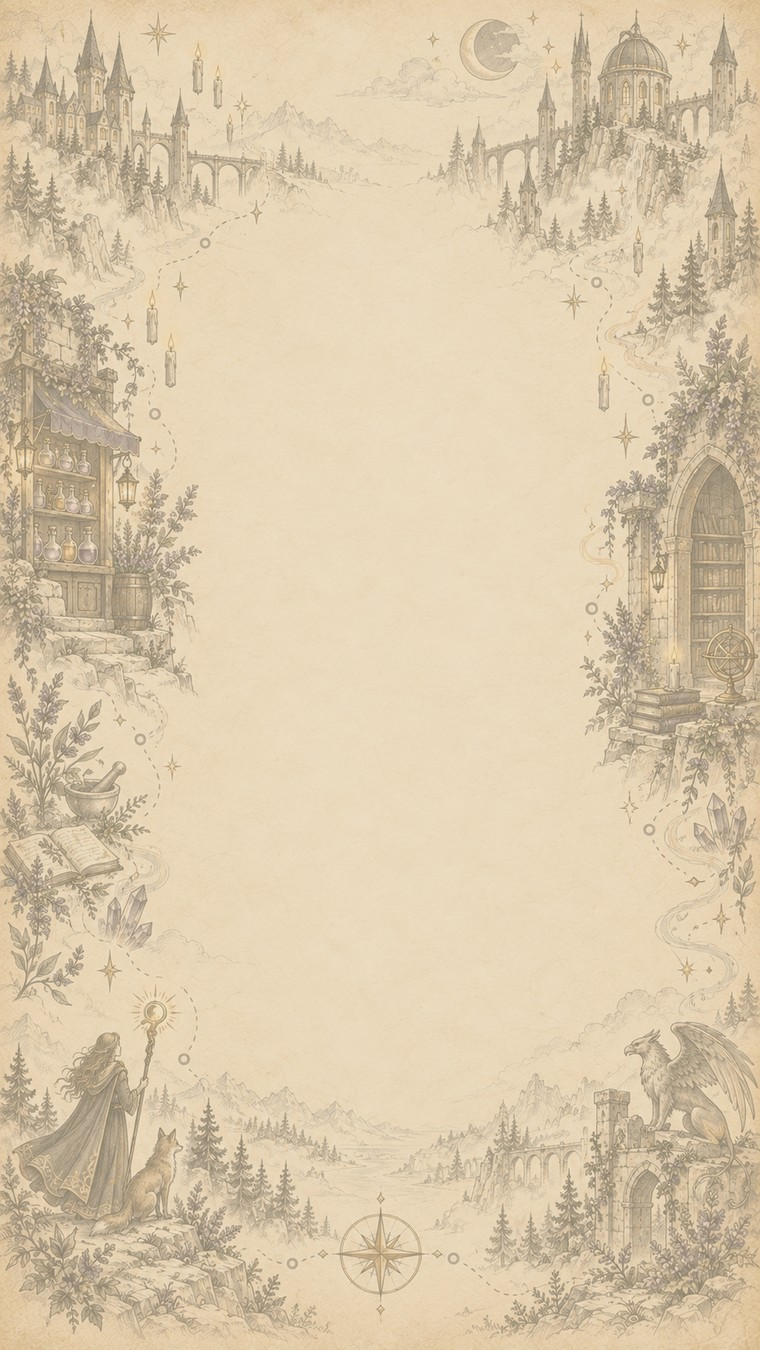
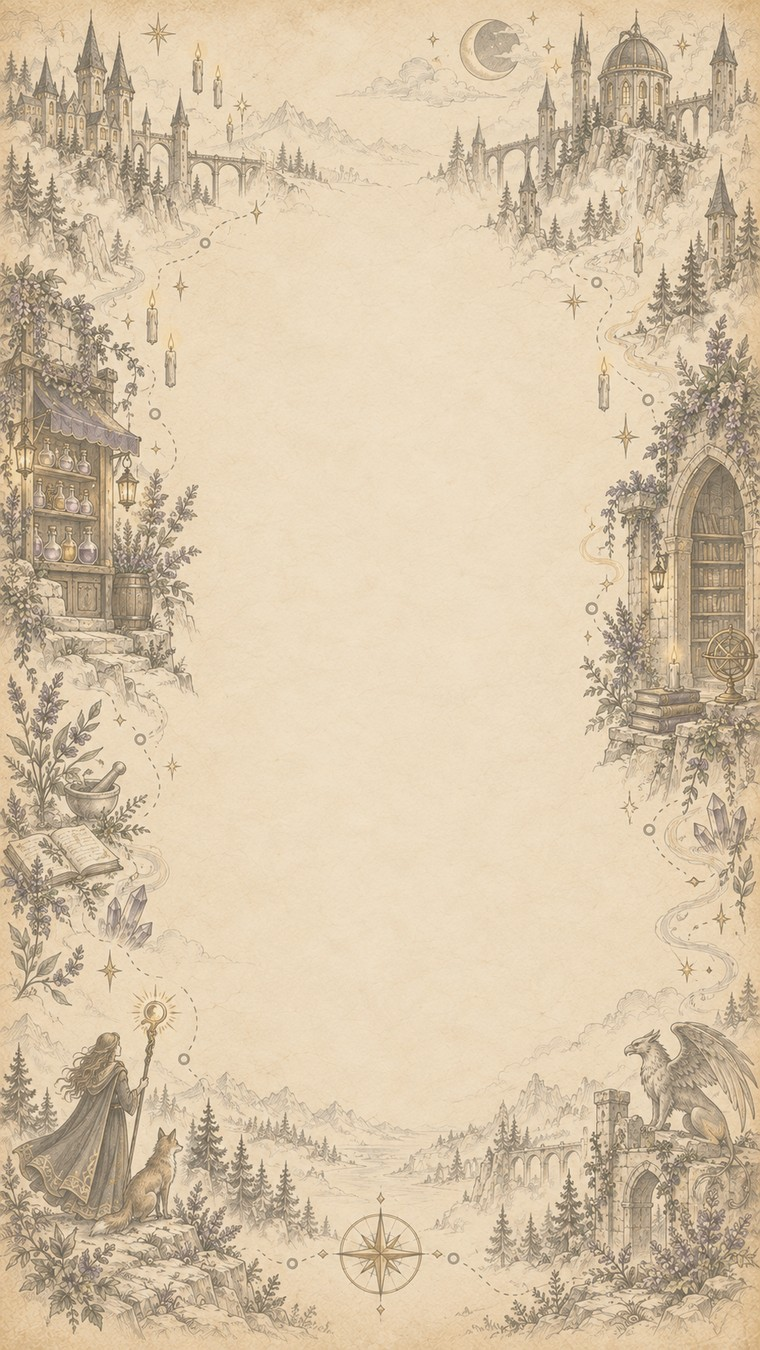
Add files via upload

diff --git a/index.html b/index.html
@@ -189,9 +189,6 @@
   #sabbath{position:fixed;inset:0;background:color-mix(in srgb,var(--bg) 94%,transparent);background-image:var(--paper);backdrop-filter:blur(6px);
     z-index:20;display:none;align-items:center;justify-content:center;padding:18px;overflow:auto}
   #sabbath.on{display:flex}
-  #church{position:fixed;inset:0;background:color-mix(in srgb,var(--bg) 94%,transparent);background-image:var(--paper);backdrop-filter:blur(6px);
-    z-index:20;display:none;align-items:center;justify-content:center;padding:18px;overflow:auto}
-  #church.on{display:flex}
   .crow{display:flex;align-items:center;justify-content:space-between;gap:10px;padding:9px 0;border-top:1px solid var(--line2);text-align:left}
   .crow:first-child{border-top:none}
   .crow label{font-size:14.5px;color:var(--tx)}
@@ -645,12 +642,6 @@
     and a nap you don't have to justify. The board is lighter on purpose — enjoy the day the Lord made.</p>
   <button id="sabgo">Begin the day</button>
 </div></div>
-<div id="church"><div class="sabbox">
-  <div class="sabhead" id="churchhead">How was it?</div>
-  <p class="sabtx" id="churchsub">A few honest numbers. Nobody's grading you — this is just for you.</p>
-  <div id="churchrows"></div>
-  <button id="churchgo" style="margin-top:14px">Log it</button>
-</div></div>
 <div id="pop"><div id="popbox"></div></div>
 <canvas id="fx"></canvas><div id="critterLayer"></div>
 <div class="toast" id="toast"></div>
@@ -817,41 +808,6 @@ el('weightlog').onclick=()=>{
   render();save();
 };
 
-/* ---------- church check-in: Sunday 12pm, Wednesday 8pm ---------- */
-const CHURCH_QS=[['attentive','Present, not elsewhere'],['application','Took something with me'],['spoke','Said something out loud'],['met','Talked to someone new']];
-function churchState(){S.church=S.church||{lastSun:null,lastWed:null,log:[]};return S.church}
-function churchDue(){
-  const d=new Date(),dow=d.getDay(),h=d.getHours(),cs=churchState();
-  if(dow===0&&h>=12&&cs.lastSun!==today())return 'Sunday service';
-  return null;
-}
-function checkChurchPrompt(){
-  if(el('church').classList.contains('on')||el('sabbath').classList.contains('on'))return;
-  const which=churchDue();if(!which)return;
-  el('churchhead').textContent='How was '+which+'?';
-  const picks={};
-  el('churchrows').innerHTML=CHURCH_QS.map(([k,label])=>`<div class="crow">
-    <label>${label}</label><div class="cscale" data-k="${k}">
-      ${[1,2,3,4,5].map(n=>`<button data-v="${n}">${n}</button>`).join('')}</div></div>`).join('');
-  el('churchrows').querySelectorAll('.cscale').forEach(row=>{
-    const k=row.dataset.k;
-    row.querySelectorAll('button').forEach(b=>{
-      b.onclick=()=>{picks[k]=+b.dataset.v;
-        row.querySelectorAll('button').forEach(x=>x.classList.toggle('pick',x===b))};
-    });
-  });
-  el('church').classList.add('on');
-  el('churchgo').onclick=()=>{
-    const vals=CHURCH_QS.map(([k])=>picks[k]).filter(v=>v!=null);
-    if(!vals.length){toast('Pick at least one number.');return}
-    const avg=vals.reduce((a,b)=>a+b,0)/vals.length;
-    const cs=churchState();
-    if(which==='Sunday service')cs.lastSun=today();
-    cs.log=(cs.log||[]).concat([{d:today(),which,avg:+avg.toFixed(1),picks:{...picks}}]).slice(-30);
-    el('church').classList.remove('on');
-    award(Math.round(20+avg*8),'dev','Enablement',which+' check-in');
-  };
-}
 
 const SYNC={get(){try{return JSON.parse(localStorage.getItem('liferpg:kk:sync')||'null')}catch(e){return null}},set(v){localStorage.setItem('liferpg:kk:sync',JSON.stringify(v))}};
 const HH_KEY='liferpg:kk:household';
@@ -1186,7 +1142,7 @@ const LEX={
       'yoga','steps','cardio','strength','mobility','water','protein','meal prep','sleep','nap','rest','hike','bike'],
  stl:['read','reading','book','chapter','pages','journal','quiet','phone','scroll','scrolling','instagram',
       'facebook','tiktok','social','screen','library','plan','budget','spending','no spend','savings','notes','think'],
- dev:['pray','prayer','devotional','bible','scripture','church','verse','study','worship','ladies','small group',
+ dev:['pray','prayer','devotional','bible','scripture','verse','study','worship',
       'gratitude','quiet time','sermon'],
  kin:['ty','lawson','kids','kid','son','family','mom','mom friends','friend','friends','playdate','play date',
       'coffee with','lunch with','dinner','birthday','visit','text','call mom','call dad','check on','check in',
@@ -1265,10 +1221,11 @@ function renderCustom(){
       const d=document.createElement('div');d.className='q'+(c.done?' done':'');d.dataset.undo='cu:'+c.id;
       d.innerHTML=`<div class="box"></div><div style="flex:1">
         <div class="qt">${esc(c.t)}</div>
-        <div class="meta"><span class="tag">${an}</span> · ${c.m>=2.2?'been avoiding it':c.m>1?'high priority':'normal'}${when}${c.rolls?` · carried ${c.rolls}×`:''}${c.repeat?` · repeats ${c.repeat}`:''}</div>
+        <div class="meta"><span class="tag">${an}</span> · ${c.m>=2.2?'been avoiding it':c.m>1?'high priority':'normal'}${when}${c.rolls?` · carried ${c.rolls}×`:''}${c.repeat?` · <span class="stoprepeat" data-stoprepeat="${c.id}" style="text-decoration:underline;cursor:pointer">repeats ${c.repeat} — stop</span>`:''}</div>
         ${b==='todo'&&c.made&&(new Date(today()+'T12:00:00')-new Date(c.made+'T12:00:00'))/864e5>=30?`<div class="cy" style="margin:6px 0 0;padding:6px 8px"><div class="qt" style="font-size:13.5px;font-style:italic;color:var(--mu)">Thirty days on the list. Still real?</div><div class="row"><button class="ghost" data-age="keep">Still real</button><button class="ghost" data-age="drop">Let it go</button></div></div>`:''}</div>
         <div class="xp">${xp}</div><div class="del" data-del="${c.id}">\u00d7</div>`;
       d.onclick=e=>{
+        if(e.target.dataset.stoprepeat){e.stopPropagation();c.repeat=null;toast('Won\u2019t repeat after this one.');render();save();return}
         if(e.target.dataset.age){e.stopPropagation();if(e.target.dataset.age==='keep'){c.made=today();toast('Kept.')}else{S.custom=S.custom.filter(x=>x.id!==c.id);toast('Let go. No penalty.')}render();save();return}
         if(e.target.dataset.del){S.custom=S.custom.filter(x=>x.id!==c.id);render();save();return}
         if(c.done){tryUndo('cu:'+c.id);return}
@@ -1278,7 +1235,7 @@ function renderCustom(){
       box.appendChild(d)})});
 }
 function renderWeek(){
-  const fixed={0:['Church'],2:['Ladies\u2019 devotional'],3:['Camp']};
+  const fixed={3:['Camp']};
   let out='';
   { const mon=new Date();mon.setHours(12,0,0,0);mon.setDate(mon.getDate()-mon.getDay());
     let held=0,seen=0,dots='';
@@ -1342,7 +1299,7 @@ const POOL=[
  {c:'Body',a:'vig',wg:'Wonder',t:'Stand outside for three minutes and look at nothing useful.',x:15},
  {c:'Faith',a:'dev',wg:'Enablement',t:'Pray for one person by name who does not know you are praying.',x:20},
  {c:'Faith',a:'dev',wg:'Wonder',t:'Read one psalm. Just one. Do not study it.',x:20},
- {c:'Faith',a:'dev',wg:'Galvanizing',t:'Text one of the devotional women something you were thinking about.',x:25},
+ {c:'Faith',a:'dev',wg:'Galvanizing',t:'Share something you\u2019ve been thinking about with someone who\u2019d appreciate it.',x:25},
  {c:'Faith',a:'dev',wg:'Discernment',t:'Name one thing this week that worked out without your managing it.',x:30},
  {c:'Faith',a:'dev',wg:'Enablement',t:'Say thank you out loud for something small and specific.',x:15},
  {c:'Faith',a:'dev',wg:'Wonder',t:'Ninety seconds of quiet before you ask for anything.',x:25},
@@ -1566,8 +1523,6 @@ const ROUTINES=[
  {id:'read',n:'Read something that was not a screen',a:'stl',wg:'Wonder',x:45,days:[]},
  {id:'offphone',n:'Stayed off the scroll tonight',a:'stl',wg:'Discernment',x:45,days:[]},
  {id:'prayed',n:'Prayed or read scripture',a:'dev',wg:'Wonder',x:40,days:[]},
- {id:'devo',n:'Ladies\u2019 devotional',a:'dev',wg:'Enablement',x:70,days:[2,3]},
- {id:'church',n:'Church',a:'dev',wg:'Enablement',x:60,days:[0]},
  {id:'friend',n:'Real contact with a friend',a:'kin',wg:'Enablement',x:50,days:[]},
  {id:'family',n:'Unhurried time with Ty or Lawson',a:'kin',wg:'Enablement',x:50,days:[]},
  {id:'said',n:'Said the thing instead of swallowing it',a:'nrv',wg:'Galvanizing',x:60,days:[]}
@@ -2294,7 +2249,7 @@ el('logmatch').onclick=()=>{
   render();save();
   if(after>before){hero3dCheer();confetti(120,'center');setTimeout(pixelNext,600)}
   else toast(`+${grand} xp on the court.`)};
-const APP_VERSION='4.2.0';
+const APP_VERSION='4.2.1';
 const TABS={
  today:['p-board','p-commit','p-lift','p-boss','p-special','cipanel','p-draw'],
  together:['p-household'],
@@ -2669,8 +2624,6 @@ el('imp').onclick=()=>{const t=prompt('Paste your save code:');if(!t)return;
 pixelInstall();buildTabs();eveningOrder();
 showTab('hero');
 schedulePop(true);
-setTimeout(checkChurchPrompt,1500);
-setInterval(checkChurchPrompt,5*60000);
 setInterval(checkCritterDue,60000);
 document.addEventListener('visibilitychange',()=>{if(!document.hidden)checkCritterDue()});
 load();

diff --git a/pixel-ui.js b/pixel-ui.js
@@ -10,7 +10,7 @@ function pixelFigure(p=pixelState(),pets=true){
  const img=(id,x,y,w,h,cl='',rotation=0,pivot=[.5,.5])=>`<img class="pixel-item ${cl}" src="${pixelAsset(id,sex)}" alt="" style="left:${x/384*100}%;top:${y/512*100}%;width:${w/384*100}%;height:${h/512*100}%;transform-origin:${pivot[0]*100}% ${pivot[1]*100}%;transform:rotate(calc(${rotation}deg + var(--lag,0deg)))">`;
  let layers='';
  const main=PX.get(e.main);
- if(main){const spec={sword:[82,211,.48,.80,70],saber:[64,210,.30,.82,-145],axe:[124,222,.50,.84,70],hammer:[125,212,.50,.84,70],bow:[88,264,.25,.50,-10],staff:[75,270,.5,.79,0],spear:[43,278,.5,.77,0],paddle:[90,170,.50,.83,70],rake:[90,204,.50,.15],dustpan:[103,197,.50,.15]}[main.asset]||[78,224,.5,.84];
+ if(main){const spec={sword:[82,211,.48,.80,-100],saber:[64,210,.30,.82,-145],axe:[124,222,.50,.84,-100],hammer:[125,212,.50,.84,-100],bow:[88,264,.25,.50,-10],staff:[75,270,.5,.79,0],spear:[43,278,.5,.77,0],paddle:[90,170,.50,.83,-100],rake:[90,204,.50,.15],dustpan:[103,197,.50,.15]}[main.asset]||[78,224,.5,.84];
  const [w,h,px,py,rotation=0]=spec;layers+=img(main.id,hand[0]-w*px,hand[1]-h*py,w,h,'pixel-weapon '+(main.special?'pixel-special':''),rotation,[px,py]);}
  const off=PX.get(e.off);if(off){const isLantern=off.id==='lantern';layers+=img(off.id,hand[2]-(isLantern?30:59),hand[3]-(isLantern?8:58),isLantern?60:118,isLantern?104:118)}
  // Put the original clenched hand pixels back in front of the held layers.

diff --git a/sw.js b/sw.js
@@ -1,5 +1,5 @@
 /* Kaitlyn's Quest service worker — network-first, cache as fallback. */
-const CACHE='kkquest-v4.2.0'; // bump with APP_VERSION in index.html on every deploy
+const CACHE='kkquest-v4.2.1'; // bump with APP_VERSION in index.html on every deploy
 const ICONS=['campfire','castle-room','cave','flying-dragon','hooded-traveler','hunter-and-wolf',
  'journal-and-quill','knight-swinging-sword','minotaur','owl','potion-bottle','signpost','sleeping-dragon',
  'stone-bridge','sword-and-shield','treasure-chest','watchtower','witch-hut','witch-with-staff','wizard-fireball'];
